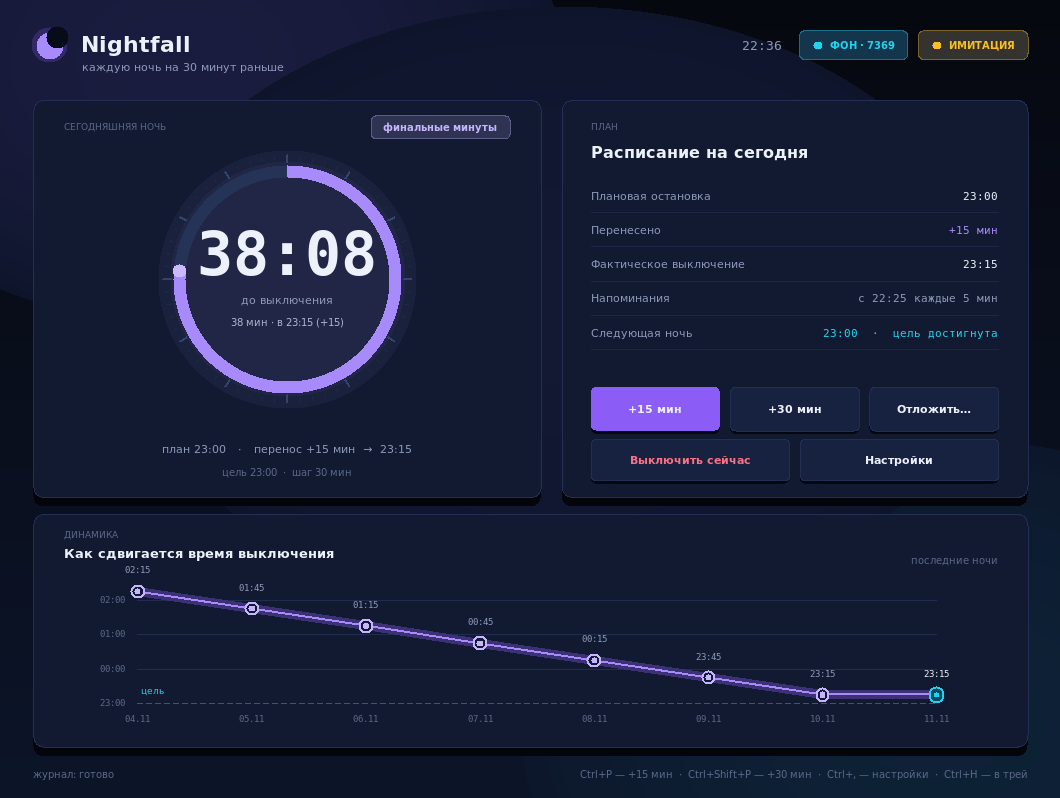
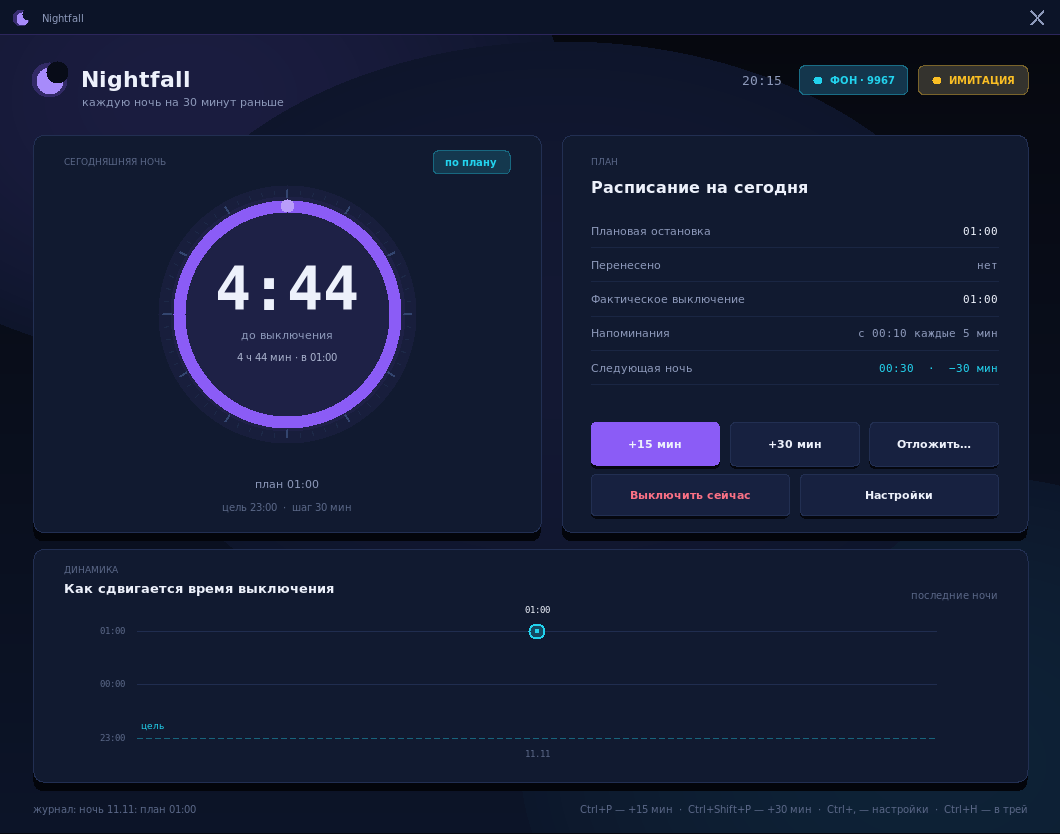
Свой заголовок окна: рамка WM отключена, кнопка только одна — крестик
Подсказками Motif убрать отдельно «свернуть» не получается: оконные менеджеры
понимают их как «всё или ничего». Открытые окна под openbox показали это прямо:
при functions без MINIMIZE кнопка оставалась и продолжала сворачивать окно.

Поэтому рамку оконного менеджера отключаем целиком (decorations = 0), а полоску
заголовка рисуем сами:
* в ней полумесяц, надпись Nightfall и единственный крестик (при наведении
  краснеет, курсор — «рука»);
* окно перетаскивается за эту полоску (рамки WM больше нет);
* высота окна увеличена на высоту полоски, дизайн-поверхность сдвинута вниз;
* заголовок окна теперь латиницей — в панели задач он не ломается при не-UTF8
  локали оконного менеджера.

Проверено вживую под openbox (единственный WM с настоящими кнопками, который
удалось поднять в песочнице): рамки WM нет, кнопка одна, перетаскивание
работает (окно сдвинулось на +60/+30), крестик прячет окно и процесс живёт,
клик по иконке в трее возвращает окно.

Ещё:
* попадание по крестику считается по координатам — у прозрачного
  canvas-прямоугольника зона попадания оказалась только по контуру;
* тесты на биты Motif переписаны под новое поведение (decorations = 0),
  всего 64;
* docs/screenshot.png и docs/tray.png пересняты, README и QUICKSTART объясняют,
  почему заголовок свой.

diff --git a/nightfall/ui.py b/nightfall/ui.py
@@ -22,6 +22,32 @@ from typing import Callable, Optional
 from . import ipc, notify, schedule, session
 
 
+# Подсказки Motif (_MOTIF_WM_HINTS): какие действия и кнопки разрешает WM.
+# Важно: флаг ALL (0x1) означает «разрешить всё» и перекрывает остальные биты —
+# поэтому его быть НЕ должно, иначе «свернуть» и «развернуть» никуда не денутся.
+MWM_FUNC_RESIZE = 0x2
+MWM_FUNC_MOVE = 0x4
+MWM_FUNC_CLOSE = 0x20
+MWM_DECOR_BORDER = 0x2
+MWM_DECOR_RESIZEH = 0x4
+MWM_DECOR_TITLE = 0x8
+MWM_DECOR_MENU = 0x10
+
+
+def motif_hints_values() -> tuple[int, int, int]:
+    """(flags, functions, decorations): без рамки оконного менеджера.
+
+    Кнопки «свернуть»/«развернуть» рисует оконный менеджер, и убрать только их
+    он не даёт: подсказки Motif он понимает как «всё или ничего». Поэтому рамку
+    WM мы отключаем целиком (decorations = 0), а свой заголовок с единственным
+    крестиком рисуем сами — он всегда выглядит одинаково.
+    """
+    flags = 0x1 | 0x2  # MWM_HINTS_FUNCTIONS | MWM_HINTS_DECORATIONS
+    functions = MWM_FUNC_RESIZE | MWM_FUNC_MOVE | MWM_FUNC_CLOSE
+    decorations = 0  # без рамки: заголовок наш
+    return flags, functions, decorations
+
+
 def _close_button_only(root) -> None:
     """Оставить в заголовке окна только крестик.
 
@@ -102,12 +128,11 @@ def _close_button_only(root) -> None:
             current = ctypes.c_ulong(parent.value)
             targets.append(parent.value)
 
-        hints_functions, hints_decorations = 1, 2
-        func_all, func_resize, func_move, func_close = 0x1, 0x2, 0x4, 0x20
+        flags, functions, decorations = motif_hints_values()
         hints = MotifWmHints(
-            flags=hints_functions | hints_decorations,
-            functions=func_all | func_resize | func_move | func_close,  # без minimize/maximize
-            decorations=0x1,  # оформление как обычно, но без лишних кнопок
+            flags=flags,
+            functions=functions,
+            decorations=decorations,
             input_mode=0,
             status=0,
         )
@@ -156,6 +181,7 @@ C = {
 }
 
 DESIGN_W, DESIGN_H = 1020, 768
+WINDOW_BAR = 34  # своя полоска заголовка: перетаскивание окна и крестик
 
 
 # --------------------------------------------------------------------------- #
@@ -400,22 +426,35 @@ class NightfallWindow:
     def __init__(self, client: DaemonClient) -> None:
         self.ctrl = client
         self.root = tk.Tk()
-        self.root.title("Nightfall — плавное засыпание")
-        try:
-            # окно постоянного размера: сворачивать и разворачивать его незачем,
-            # поэтому просим WM оформить его как диалог — только с крестиком
-            self.root.attributes("-type", "dialog")
-        except tk.TclError:  # pragma: no cover - не X11
-            pass
+        # только латиница: в панели задач заголовок не должен ломаться
+        # из-за не-UTF8 локали оконного менеджера
+        self.root.title("Nightfall")
         self.root.configure(bg=C["bg0"])
         self.scale = self._detect_scale()
         self.fonts = Fonts(self.root, self.scale)
+        self._drag_origin: Optional[tuple[int, int, int, int]] = None
+
+        # своя полоска заголовка: рамку оконного менеджера мы отключаем, поэтому
+        # перетаскивание и крестик тоже свои (и никаких «свернуть»/«развернуть»)
+        self.bar_height = int(WINDOW_BAR * self.scale)
+        self.bar = tk.Canvas(
+            self.root, height=self.bar_height, bg=C["bg1"], highlightthickness=0, bd=0,
+        )
+        self.bar.pack(side="top", fill="x")
+
         self.surface = CanvasSurface(self.root, DESIGN_W, DESIGN_H, self.scale, C["bg0"])
         self.surface.redraw = self.render
         # центр вместо растягивания: тайловые WM могут развернуть окно на весь экран
-        self.surface.place(relx=0.5, rely=0.5, anchor="center")
+        self.surface.place(relx=0.5, rely=0.0, anchor="n", y=self.bar_height)
         self.root.resizable(False, False)
         self._center_window()
+        self._draw_window_bar()
+        self.bar.bind("<Configure>", lambda _e: self._draw_window_bar())
+        self.bar.bind("<Button-1>", self._bar_press)
+        self.bar.bind("<B1-Motion>", self._bar_drag)
+        self.bar.bind("<ButtonRelease-1>", lambda _e: setattr(self, "_drag_origin", None))
+        self.bar.bind("<Motion>", self._bar_motion)
+        self.bar.bind("<Leave>", lambda _e: self._close_hover(False))
 
         # сокет окна: через него трей и `nightfall --show` будят свёрнутое окно
         self._commands: "queue.Queue[str]" = queue.Queue()
@@ -426,7 +465,6 @@ class NightfallWindow:
             self.gui_server = None
         self.tray_active = False
         self.visible = True  # окно на экране: этим пользуется клик по иконке
-        self._titlebar_fixed = False
 
         self.online = client.is_running()
         self.view: Optional[RemoteView] = client.last_view
@@ -454,15 +492,80 @@ class NightfallWindow:
         threading.Thread(target=self._start_tray, daemon=True).start()
 
     # ------------------------------------------------------------------ #
+    def _draw_window_bar(self) -> None:
+        """Своя полоска заголовка: луна, название и единственный крестик."""
+        canvas, scale = self.bar, self.scale
+        canvas.delete("all")
+        width = canvas.winfo_width()
+        if width <= 1:
+            width = int(DESIGN_W * scale)
+        height = self.bar_height
+        canvas.create_rectangle(0, 0, width, height, fill=C["bg1"], outline="")
+        canvas.create_line(0, height - 1, width, height - 1, fill=mix(C["bg1"], C["violet"], 0.25))
+
+        # полумесяц
+        canvas.create_oval(12 * scale, 9 * scale, 28 * scale, 25 * scale,
+                           fill=mix(C["bg1"], C["violet"], 0.35), outline="")
+        canvas.create_oval(15 * scale, 12 * scale, 27 * scale, 24 * scale,
+                           fill=C["violet2"], outline="")
+        canvas.create_oval(21 * scale, 8 * scale, 30 * scale, 19 * scale,
+                           fill=C["bg1"], outline="")
+        canvas.create_text(40 * scale, height / 2, text="Nightfall", anchor="w",
+                           fill=C["muted"], font=self.fonts.small)
+
+        # крестик: две линии рисуем сами — так он одинаков во всех темах
+        self.close_center = (width - 22 * scale, height / 2)
+        reach = 6 * scale
+        cx, cy = self.close_center
+        self.close_lines = [
+            canvas.create_line(cx - reach, cy - reach, cx + reach, cy + reach,
+                               fill=C["muted"], width=max(1, 2 * scale), capstyle="round"),
+            canvas.create_line(cx - reach, cy + reach, cx + reach, cy - reach,
+                               fill=C["muted"], width=max(1, 2 * scale), capstyle="round"),
+        ]
+
+    def _close_hover(self, active: bool) -> None:
+        color = C["red"] if active else C["muted"]
+        for item in getattr(self, "close_lines", []):
+            self.bar.itemconfigure(item, fill=color)
+
+    def _in_close_zone(self, x: int, y: int) -> bool:
+        cx, cy = getattr(self, "close_center", (0, 0))
+        radius = 13 * self.scale
+        return abs(x - cx) <= radius and abs(y - cy) <= radius
+
+    def _bar_motion(self, event) -> None:
+        self._close_hover(self._in_close_zone(event.x, event.y))
+        self.bar.configure(cursor="hand2" if self._in_close_zone(event.x, event.y) else "")
+
+    def _bar_press(self, event) -> None:
+        """Крестик — закрыть/спрятать; остальное — тянем окно (рамки WM нет)."""
+        if self._in_close_zone(event.x, event.y):
+            self.on_close_request()
+            return
+        self.root.focus_force()
+        self._drag_origin = (event.x_root, event.y_root,
+                             self.root.winfo_x(), self.root.winfo_y())
+
+    def _bar_drag(self, event) -> None:
+        if self._drag_origin is None:
+            return
+        x0, y0, win_x, win_y = self._drag_origin
+        self.root.geometry(f"+{win_x + event.x_root - x0}+{win_y + event.y_root - y0}")
+
     def _on_map(self, _event=None) -> None:
         self.render()
+        self._draw_window_bar()
         self._fix_titlebar()
 
     def _fix_titlebar(self) -> None:
-        if self._titlebar_fixed:
-            return
-        self._titlebar_fixed = True
+        # подсказки ставим каждый раз после появления окна: оконный менеджер
+        # может перечитать их при повторном управлении окном
         _close_button_only(self.root)
+        if os.environ.get("NIGHTFALL_DEBUG"):
+            flags, functions, decorations = motif_hints_values()
+            _dbg(f"заголовок: flags={flags:#x} functions={functions:#x} "
+                 f"decorations={decorations:#x}")
 
     def _detect_scale(self) -> float:
         try:
@@ -473,7 +576,7 @@ class NightfallWindow:
 
     def _center_window(self) -> None:
         width = int(DESIGN_W * self.scale)
-        height = int(DESIGN_H * self.scale)
+        height = int((DESIGN_H + WINDOW_BAR) * self.scale)
         x = max(0, (self.root.winfo_screenwidth() - width) // 2)
         y = max(0, (self.root.winfo_screenheight() - height) // 2 - 24)
         self.root.geometry(f"{width}x{height}+{x}+{y}")
@@ -516,6 +619,7 @@ class NightfallWindow:
     def show_window(self) -> None:
         self.visible = True
         self.root.deiconify()
+        self._draw_window_bar()
         self.root.lift()
         try:
             self.root.focus_force()

diff --git a/tests/test_titlebar.py b/tests/test_titlebar.py
@@ -1,0 +1,57 @@
+"""Заголовок окна: у Nightfall должна остаться только кнопка «закрыть».
+
+Рамку рисует оконный менеджер, и «убрать только свернуть» он не умеет:
+подсказки Motif он понимает как «всё или ничего». Поэтому рамку WM мы
+отключаем целиком (decorations = 0), а свою полоску заголовка рисуем сами —
+в ней есть только крестик. Здесь проверяются именно биты подсказок: ошибка
+в них не видна глазом, но возвращает лишние кнопки.
+"""
+
+from __future__ import annotations
+
+import unittest
+
+from nightfall.ui import motif_hints_values
+
+MWM_HINTS_FUNCTIONS = 0x1
+MWM_HINTS_DECORATIONS = 0x2
+MWM_FUNC_ALL = 0x1
+MWM_FUNC_MAXIMIZE = 0x8
+MWM_FUNC_MINIMIZE = 0x10
+MWM_FUNC_CLOSE = 0x20
+MWM_DECOR_ALL = 0x1
+MWM_DECOR_MINIMIZE = 0x20
+MWM_DECOR_MAXIMIZE = 0x40
+MWM_DECOR_TITLE = 0x8
+
+
+class MotifHintsTest(unittest.TestCase):
+    def setUp(self) -> None:
+        self.flags, self.functions, self.decorations = motif_hints_values()
+
+    def test_both_sections_are_described(self) -> None:
+        self.assertTrue(self.flags & MWM_HINTS_FUNCTIONS)
+        self.assertTrue(self.flags & MWM_HINTS_DECORATIONS)
+
+    def test_all_shortcut_is_not_used(self) -> None:
+        # если выставлен *_ALL, оконные менеджеры разрешают вообще всё
+        # и «свернуть»/«развернуть» остаются на месте
+        self.assertFalse(self.functions & MWM_FUNC_ALL)
+        self.assertFalse(self.decorations & MWM_DECOR_ALL)
+
+    def test_minimize_and_maximize_are_forbidden(self) -> None:
+        for bit in (MWM_FUNC_MINIMIZE, MWM_FUNC_MAXIMIZE):
+            self.assertFalse(self.functions & bit)
+        for bit in (MWM_DECOR_MINIMIZE, MWM_DECOR_MAXIMIZE):
+            self.assertFalse(self.decorations & bit)
+
+    def test_window_manager_frame_is_off(self) -> None:
+        # никакой рамки от WM: заголовок рисует само приложение
+        self.assertEqual(self.decorations, 0)
+
+    def test_close_is_allowed(self) -> None:
+        self.assertTrue(self.functions & MWM_FUNC_CLOSE)
+
+
+if __name__ == "__main__":
+    unittest.main()

diff --git a/docs/QUICKSTART.md b/docs/QUICKSTART.md
@@ -129,8 +129,9 @@ nightfall --toggle          # показать/спрятать окно
 ![Иконка в трее](tray.png)
 
 Окно можно просто закрыть: если в системе есть трей, оно свернётся в иконку
-рядом с часами, а служба продолжит считать время и напоминать. В заголовке окна
-оставлен только крестик — «свернуть» не нужна, окно постоянного размера.
+рядом с часами, а служба продолжит считать время и напоминать. Полоску заголовка
+рисует сам Nightfall, поэтому в ней только крестик — «свернуть» и «развернуть»
+отсутствуют, а перетаскивается окно за эту же полоску.
 
 | Что сделать | Что будет |
 |---|---|
@@ -172,7 +173,7 @@ python3 nightfall.py --tray-backend detect     # appindicator / statusicon / yad
 | `Ctrl+P` | перенести на 15 минут |
 | `Ctrl+Shift+P` | перенести на 30 минут |
 | `Ctrl+,` | настройки |
-| `Ctrl+H` | свернуть окно в трей |
+| `Ctrl+H` | спрятать окно в трей (то же, что крестик) |
 | `Ctrl+Q` | спрятать окно (полный выход — через меню иконки или `--quit`) |
 
 ---
